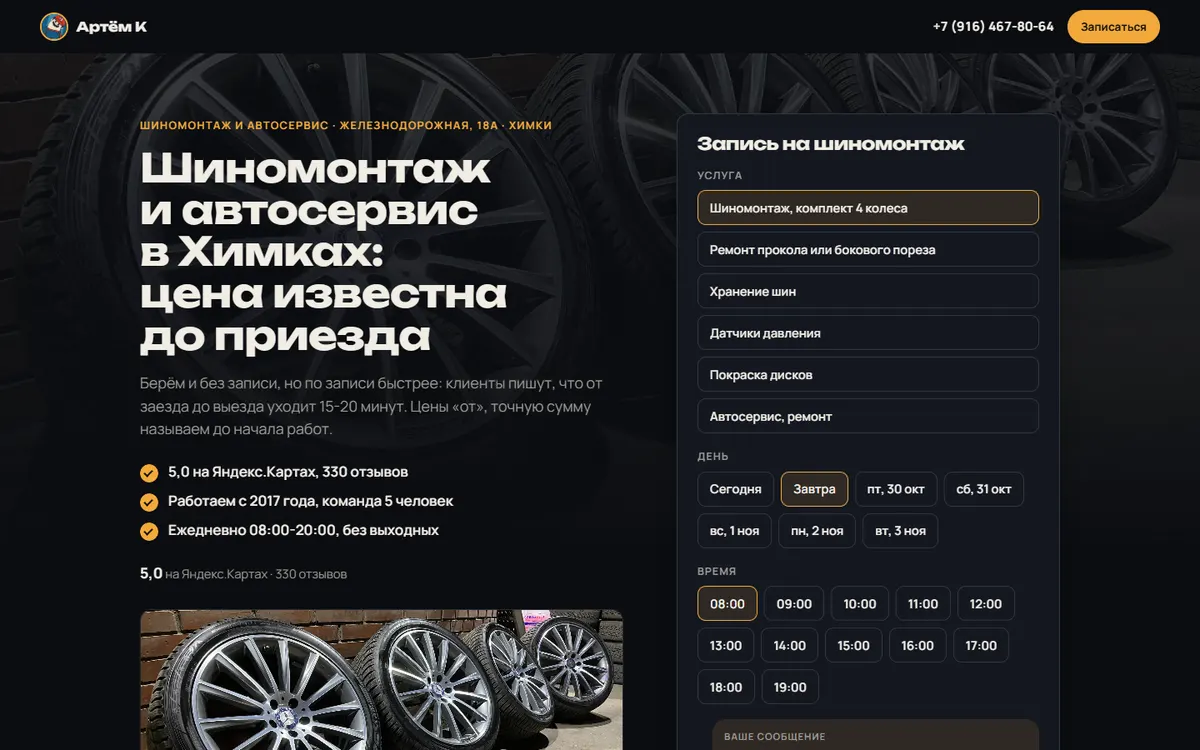
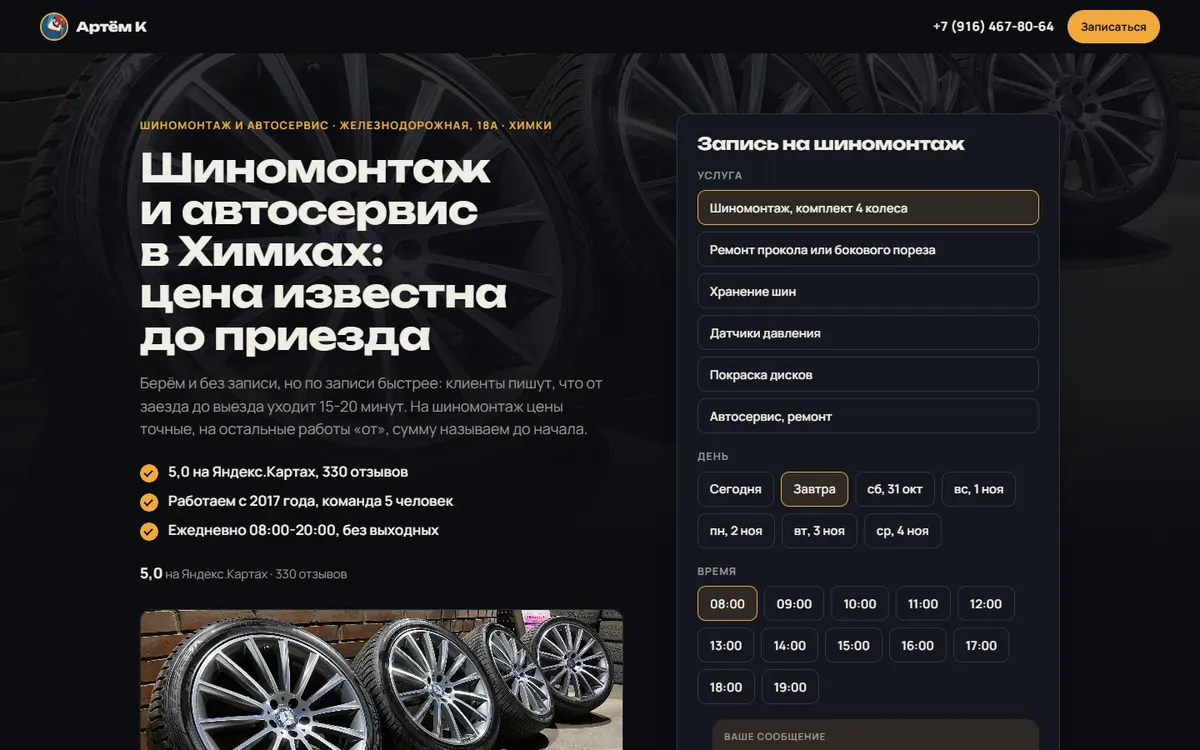
Кейс Артём К: реальный заказ

diff --git a/index.html b/index.html
@@ -277,7 +277,7 @@ h1 em{background:linear-gradient(var(--accent),var(--accent)) left 96%/0 .09em n
 <footer class="wrap"><span id="foot"></span><span></span><span></span></footer>
 <div class="toast" id="toast" role="status"></div>
 
-<script id="data" type="application/json">{"name":"Евгений Ротов","city":"Москва, работаю по всей России","cityIn":"Москве","photo":"assets/photo.webp","palette":"А","messengers":{"telegram":"Piligrim_999","whatsapp":"79859811483","max":""},"message":"Здравствуйте! Хочу заказать сайт. Посмотрел ваши работы на витрине – расскажите, как начать?","services":[{"title":"Пакет «Старт»","desc":"Готовый сайт с данными вашего бизнеса, кнопки связи и 3 круга правок","price":"15 000 ₽"},{"title":"Пакет «Стандарт»","desc":"Всё из «Старта», плюс фото и тексты, форма заявки и свой адрес сайта (домен оплачивается отдельно)","price":"25 000 ₽"},{"title":"Пакет «Под ключ»","desc":"Всё из «Стандарта», плюс акции, отзывы клиентов и месяц поддержки","price":"40 000 ₽"}],"cases":[{"title":"Шинный двор","niche":"Шиномонтаж и хранение шин","city":"Химки","url":"https://Evgeny25y.github.io/shinomontazh-himki-demo/","folder":"C:/Users/acer/Desktop/АНА/Claude_Я/shinomontazh-himki-demo","kind":"demo","about":"Демо по заказу с Kwork: шиномонтаж с записью к своему времени и хранением шин","desktop":"assets/case-evgeny25y-github-io-shinomontazh-himki-demo-desktop.webp","mobile":"assets/case-evgeny25y-github-io-shinomontazh-himki-demo-mobile.webp"},{"title":"Стоматология «Династия»","niche":"Стоматология","city":"Рязань","url":"https://Evgeny25y.github.io/stomatologiya-ryazan-demo/","folder":"C:/Users/acer/Desktop/АНА/Claude_Я/stomatologiya-ryazan-demo","kind":"demo","about":"Демо по заказу с Kwork: лендинг частной клиники для пациентов из других городов","desktop":"assets/case-evgeny25y-github-io-stomatologiya-ryazan-demo-desktop.webp","mobile":"assets/case-evgeny25y-github-io-stomatologiya-ryazan-demo-mobile.webp"},{"title":"Книга достижений","niche":"Каталог достижений","city":"","url":"https://Evgeny25y.github.io/kniga-dostizheniy-demo/","folder":"C:/Users/acer/Desktop/АНА/Claude_Я/kniga-dostizheniy-demo","kind":"study","about":"Сайт-каталог достижений для участников и родителей","desktop":"assets/case-evgeny25y-github-io-kniga-dostizheniy-demo-desktop.webp","mobile":"assets/case-evgeny25y-github-io-kniga-dostizheniy-demo-mobile.webp"},{"title":"Аква Румс","niche":"Автомойка и детейлинг","city":"Москва","url":"https://Evgeny25y.github.io/aqua-rums/","folder":"C:/Users/acer/Desktop/АНА/Claude_Я/ohota/avtomojka_9-1205029743-demo-prod","kind":"demo","about":"Автомойка и детейлинг в центре Москвы: услуги, цены, запись","desktop":"assets/case-evgeny25y-github-io-aqua-rums-desktop.webp","mobile":"assets/case-evgeny25y-github-io-aqua-rums-mobile.webp"},{"title":"WTM","niche":"Автотехцентр","city":"Химки","url":"https://Evgeny25y.github.io/wtm/","folder":"C:/Users/acer/Desktop/АНА/Claude_Я/ohota/avtoservis_6-229288322744-demo-prod","kind":"demo","about":"Мойка, детейлинг, шиномонтаж и слесарка в одном месте","desktop":"assets/case-evgeny25y-github-io-wtm-desktop.webp","mobile":"assets/case-evgeny25y-github-io-wtm-mobile.webp"},{"title":"VelesCar","niche":"Автотехцентр","city":"Королёв","url":"https://Evgeny25y.github.io/velescar/","folder":"C:/Users/acer/Desktop/АНА/Claude_Я/ohota/avtoservis_7-1180502798-demo-velescar","kind":"demo","about":"Автотехцентр: ремонт и обслуживание с записью на удобное время","desktop":"assets/case-evgeny25y-github-io-velescar-desktop.webp","mobile":"assets/case-evgeny25y-github-io-velescar-mobile.webp"},{"title":"Автоспас","niche":"Автосервис","city":"Москва","url":"https://Evgeny25y.github.io/autospas/","folder":"C:/Users/acer/Desktop/АНА/Claude_Я/ohota/avtoservis_6-1070164398-demo-prod","kind":"demo","about":"Автосервис: услуги, цены и запись в мессенджер","desktop":"assets/case-evgeny25y-github-io-autospas-desktop.webp","mobile":"assets/case-evgeny25y-github-io-autospas-mobile.webp"},{"title":"Шиномонтаж 24","niche":"Шиномонтаж","city":"Москва","url":"https://Evgeny25y.github.io/shinomontazh-klenovy-prod/","folder":"C:/Users/acer/Desktop/АНА/Claude_Я/ohota/shinomontazh_3-209159413929-demo-prod","kind":"demo","about":"Шиномонтаж у метро «Кленовый бульвар»: прайс и запись","desktop":"assets/case-evgeny25y-github-io-shinomontazh-klenovy-prod-desktop.webp","mobile":"assets/case-evgeny25y-github-io-shinomontazh-klenovy-prod-mobile.webp"},{"title":"Артём К","niche":"Шиномонтаж и автосервис","city":"Химки","url":"https://Evgeny25y.github.io/artem-k/","folder":"C:/Users/acer/Desktop/АНА/Claude_Я/ohota/shinomontazh_4-18354518012-demo-prod","kind":"demo","about":"Шиномонтаж у станции «Химки»: цены, отзывы, как добраться","desktop":"assets/case-evgeny25y-github-io-artem-k-desktop.webp","mobile":"assets/case-evgeny25y-github-io-artem-k-mobile.webp"},{"title":"Кабриолет","niche":"Шиномонтаж","city":"Москва","url":"https://Evgeny25y.github.io/kabriolet/","folder":"C:/Users/acer/Desktop/АНА/Claude_Я/ohota/shinomontazh_8-15207966707-demo-prod","kind":"demo","about":"Шиномонтаж в подземном паркинге в центре Москвы","desktop":"assets/case-evgeny25y-github-io-kabriolet-desktop.webp","mobile":"assets/case-evgeny25y-github-io-kabriolet-mobile.webp"}],"legal":{"status":"самозанятый","fio":"","inn":"","ogrnip":"","email":""},"h1":"Сайты для малого бизнеса \u003cem>по всей России\u003c/em>"}</script>
+<script id="data" type="application/json">{"name":"Евгений Ротов","city":"Москва, работаю по всей России","cityIn":"Москве","photo":"assets/photo.webp","palette":"А","messengers":{"telegram":"Piligrim_999","whatsapp":"79859811483","max":""},"message":"Здравствуйте! Хочу заказать сайт. Посмотрел ваши работы на витрине – расскажите, как начать?","services":[{"title":"Пакет «Старт»","desc":"Готовый сайт с данными вашего бизнеса, кнопки связи и 3 круга правок","price":"15 000 ₽"},{"title":"Пакет «Стандарт»","desc":"Всё из «Старта», плюс фото и тексты, форма заявки и свой адрес сайта (домен оплачивается отдельно)","price":"25 000 ₽"},{"title":"Пакет «Под ключ»","desc":"Всё из «Стандарта», плюс акции, отзывы клиентов и месяц поддержки","price":"40 000 ₽"}],"cases":[{"title":"Шинный двор","niche":"Шиномонтаж и хранение шин","city":"Химки","url":"https://Evgeny25y.github.io/shinomontazh-himki-demo/","folder":"C:/Users/acer/Desktop/АНА/Claude_Я/shinomontazh-himki-demo","kind":"demo","about":"Демо по заказу с Kwork: шиномонтаж с записью к своему времени и хранением шин","desktop":"assets/case-evgeny25y-github-io-shinomontazh-himki-demo-desktop.webp","mobile":"assets/case-evgeny25y-github-io-shinomontazh-himki-demo-mobile.webp"},{"title":"Стоматология «Династия»","niche":"Стоматология","city":"Рязань","url":"https://Evgeny25y.github.io/stomatologiya-ryazan-demo/","folder":"C:/Users/acer/Desktop/АНА/Claude_Я/stomatologiya-ryazan-demo","kind":"demo","about":"Демо по заказу с Kwork: лендинг частной клиники для пациентов из других городов","desktop":"assets/case-evgeny25y-github-io-stomatologiya-ryazan-demo-desktop.webp","mobile":"assets/case-evgeny25y-github-io-stomatologiya-ryazan-demo-mobile.webp"},{"title":"Книга достижений","niche":"Каталог достижений","city":"","url":"https://Evgeny25y.github.io/kniga-dostizheniy-demo/","folder":"C:/Users/acer/Desktop/АНА/Claude_Я/kniga-dostizheniy-demo","kind":"study","about":"Сайт-каталог достижений для участников и родителей","desktop":"assets/case-evgeny25y-github-io-kniga-dostizheniy-demo-desktop.webp","mobile":"assets/case-evgeny25y-github-io-kniga-dostizheniy-demo-mobile.webp"},{"title":"Аква Румс","niche":"Автомойка и детейлинг","city":"Москва","url":"https://Evgeny25y.github.io/aqua-rums/","folder":"C:/Users/acer/Desktop/АНА/Claude_Я/ohota/avtomojka_9-1205029743-demo-prod","kind":"demo","about":"Автомойка и детейлинг в центре Москвы: услуги, цены, запись","desktop":"assets/case-evgeny25y-github-io-aqua-rums-desktop.webp","mobile":"assets/case-evgeny25y-github-io-aqua-rums-mobile.webp"},{"title":"WTM","niche":"Автотехцентр","city":"Химки","url":"https://Evgeny25y.github.io/wtm/","folder":"C:/Users/acer/Desktop/АНА/Claude_Я/ohota/avtoservis_6-229288322744-demo-prod","kind":"demo","about":"Мойка, детейлинг, шиномонтаж и слесарка в одном месте","desktop":"assets/case-evgeny25y-github-io-wtm-desktop.webp","mobile":"assets/case-evgeny25y-github-io-wtm-mobile.webp"},{"title":"VelesCar","niche":"Автотехцентр","city":"Королёв","url":"https://Evgeny25y.github.io/velescar/","folder":"C:/Users/acer/Desktop/АНА/Claude_Я/ohota/avtoservis_7-1180502798-demo-velescar","kind":"demo","about":"Автотехцентр: ремонт и обслуживание с записью на удобное время","desktop":"assets/case-evgeny25y-github-io-velescar-desktop.webp","mobile":"assets/case-evgeny25y-github-io-velescar-mobile.webp"},{"title":"Автоспас","niche":"Автосервис","city":"Москва","url":"https://Evgeny25y.github.io/autospas/","folder":"C:/Users/acer/Desktop/АНА/Claude_Я/ohota/avtoservis_6-1070164398-demo-prod","kind":"demo","about":"Автосервис: услуги, цены и запись в мессенджер","desktop":"assets/case-evgeny25y-github-io-autospas-desktop.webp","mobile":"assets/case-evgeny25y-github-io-autospas-mobile.webp"},{"title":"Шиномонтаж 24","niche":"Шиномонтаж","city":"Москва","url":"https://Evgeny25y.github.io/shinomontazh-klenovy-prod/","folder":"C:/Users/acer/Desktop/АНА/Claude_Я/ohota/shinomontazh_3-209159413929-demo-prod","kind":"demo","about":"Шиномонтаж у метро «Кленовый бульвар»: прайс и запись","desktop":"assets/case-evgeny25y-github-io-shinomontazh-klenovy-prod-desktop.webp","mobile":"assets/case-evgeny25y-github-io-shinomontazh-klenovy-prod-mobile.webp"},{"title":"Артём К","niche":"Шиномонтаж и автосервис","city":"Химки","url":"https://Evgeny25y.github.io/artem-k/","folder":"C:/Users/acer/Desktop/АНА/Claude_Я/ohota/shinomontazh_4-18354518012-demo-prod","kind":"real","about":"Шиномонтаж у станции «Химки»: цены, отзывы, как добраться","task":"У шиномонтажа рейтинг 5,0 и 330 отзывов на Яндекс Картах, а своего сайта не было. Нужен был сайт с ценами, онлайн-записью и своим адресом, чтобы новые клиенты сразу видели репутацию и записывались сами","did":"Собрал демо по данным карточки ещё до первого сообщения. После заказа перенёс на сайт полный прайс шиномонтажа, хранение и ремонт шин, датчики давления, покраску дисков, автосервис и вакансии, добавил форму записи и фирменного персонажа в красной кепке","result":"Владелец ответил в тот же день, сам выбрал пакет «Под ключ» и внёс предоплату. От первого сообщения до оплаты прошло около 4 часов","desktop":"assets/case-evgeny25y-github-io-artem-k-desktop.webp","mobile":"assets/case-evgeny25y-github-io-artem-k-mobile.webp"},{"title":"Кабриолет","niche":"Шиномонтаж","city":"Москва","url":"https://Evgeny25y.github.io/kabriolet/","folder":"C:/Users/acer/Desktop/АНА/Claude_Я/ohota/shinomontazh_8-15207966707-demo-prod","kind":"demo","about":"Шиномонтаж в подземном паркинге в центре Москвы","desktop":"assets/case-evgeny25y-github-io-kabriolet-desktop.webp","mobile":"assets/case-evgeny25y-github-io-kabriolet-mobile.webp"}],"legal":{"status":"самозанятый","fio":"","inn":"","ogrnip":"","email":""},"h1":"Сайты для малого бизнеса \u003cem>по всей России\u003c/em>"}</script>
 <script>
 (() => {
   const D = JSON.parse(document.getElementById('data').textContent);
